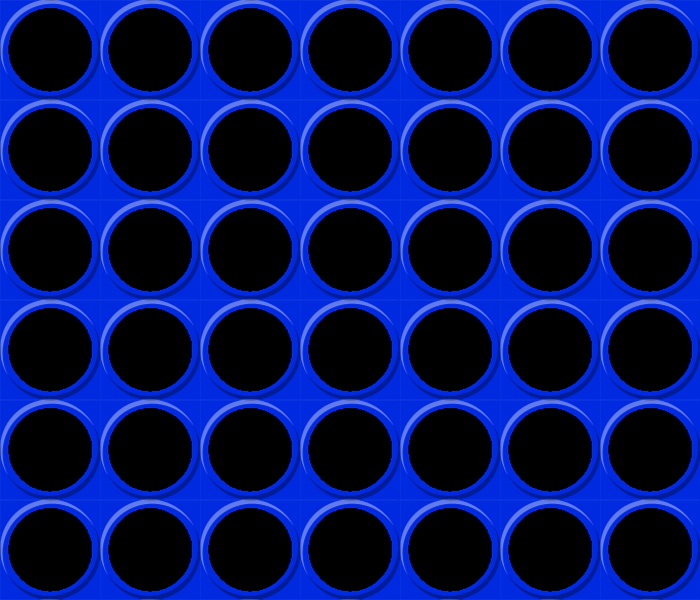
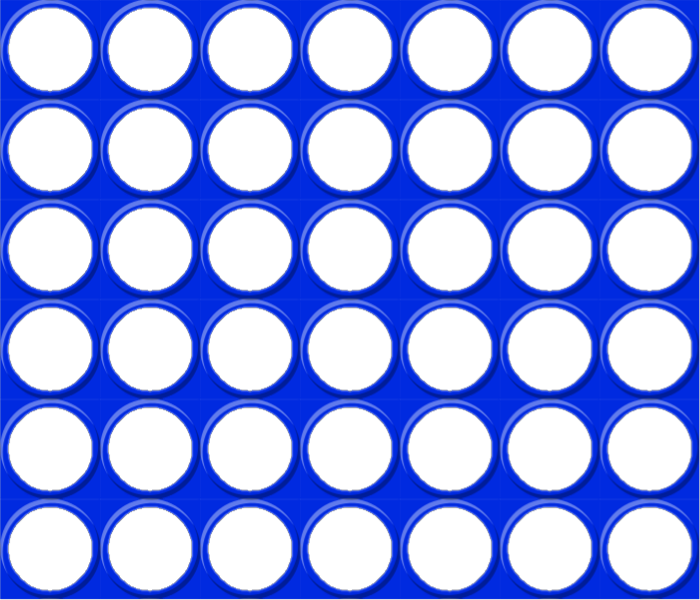
transition OK

diff --git a/script.js b/script.js
@@ -6,7 +6,9 @@ let fonctionEnCours = annimation;
 let FPS = 1000 / 60;
 
 let taillePiece = WIDTH / 7;
-let largeurColonne = WIDTH / 7;
+
+let largeurGrilleX = WIDTH / 7;
+let largeurGrilleY = (HEIGHT-200) / 6;
 
 let fondGrille = new Image();
 fondGrille.src = "assets/img/grille.png";
@@ -29,6 +31,9 @@ let coloneSelectionner = 0;
 let largeurPlateau = 7;
 let hauteurPlateau = 6;
 
+let listeJoueur = [imagePieceRed, imagePieceYellow];
+let joueurActuel = 0;
+
 let plateau = [
     ["", "", "", "", "", "", ""],
     ["", "", "", "", "", "", ""],
@@ -38,6 +43,7 @@ let plateau = [
     ["", "", "", "", "", "", ""]
 ];
 
+let pieceEnCoursMouvement = false;
 
 let pieceMouvement = {
     x: 0,
@@ -74,12 +80,20 @@ window.onload = function () {
 function annimation() {
     context.clearRect(0, 0, WIDTH, HEIGHT);
 
-    context.drawImage(fondGrille, possitionGrilleX, possitionGrilleY, WIDTH - possitionGrilleX, HEIGHT - possitionGrilleY);
+    context.fillStyle = "black";
+    context.fillRect(0, possitionGrilleY, WIDTH, HEIGHT);
 
     context.drawImage(imageFlecheVersLeBas, possitionFleche.x, possitionFleche.y, possitionFleche.width, possitionFleche.height);
 
-    context.drawImage(imagePieceRed, pieceMouvement.x, pieceMouvement.y, pieceMouvement.width, pieceMouvement.height);
     affichePiece();
+
+    //affiche piece en mouvement:
+    if (pieceEnCoursMouvement) {
+        context.drawImage(listeJoueur[joueurActuel], pieceMouvement.x, pieceMouvement.y, largeurGrilleX, largeurGrilleY);
+    }
+
+    context.drawImage(fondGrille, possitionGrilleX, possitionGrilleY, WIDTH - possitionGrilleX, HEIGHT - possitionGrilleY);
+
 }
 
 
@@ -92,21 +106,19 @@ function piecePlusBas(coloneSelectionner) {
             return;
         }
     }
-    plateau[hauteurPiece][coloneSelectionner] = "red";
-    //modifierInfoGrille(hauteurPiece);
-    //plateau[hauteurPiece][coloneSelectionner].newPosY = hauteurPiece * largeurColonne + possitionGrilleY;
-    /*
+    
     pieceMouvement = {
-        x: coloneSelectionner * largeurColonne,
+        x: coloneSelectionner * largeurGrilleX,
         y: -taillePiece,
-        newPosX: coloneSelectionner * largeurColonne,
-        newPosY: hauteurPiece * largeurColonne + possitionGrilleY,
+        newPosX: coloneSelectionner * largeurGrilleX,
+        newPosY: possitionGrilleY + hauteurPiece * largeurGrilleY,
         ease: "bounce"
     }
     annimPiece(pieceMouvement);
-    */
-
+    pieceEnCoursMouvement = true;
+    
 }
+
 
 function modifierInfoGrille(possitionPlusBas) {
     if (0 <= possitionPlusBas && possitionPlusBas < hauteurPlateau) {
@@ -119,9 +131,9 @@ function affichePiece() {
         ligne.forEach((colone, x) => {
 
             if (colone === "red") {
-                context.drawImage(imagePieceRed, x * largeurColonne, y * largeurColonne + possitionGrilleY, largeurColonne, largeurColonne);
+                context.drawImage(imagePieceRed, x * largeurGrilleX, y * largeurGrilleY + possitionGrilleY, largeurGrilleX, largeurGrilleY);
             } else if (colone === "yellow") {
-                context.drawImage(imagePieceYellow, x * largeurColonne, y * largeurColonne + possitionGrilleY, largeurColonne, largeurColonne);
+                context.drawImage(imagePieceYellow, x * largeurGrilleX, y * largeurGrilleY + possitionGrilleY, largeurGrilleX, largeurGrilleY);
             }
 
         })
@@ -134,32 +146,45 @@ function moveMouse(event) {
     possitionMouseY = event.pageY - (board.clientTop + board.offsetTop);
 
     if ((0 <= possitionMouseX && possitionMouseX < WIDTH) && (possitionGrilleY <= possitionMouseY && possitionMouseY <= HEIGHT)) {
-        possitionFleche.newPosX = Math.floor(possitionMouseX / largeurColonne) * largeurColonne;
-        coloneSelectionner = possitionFleche.newPosX / largeurColonne;
+        possitionFleche.newPosX = Math.floor(possitionMouseX / largeurGrilleX) * largeurGrilleX;
+        coloneSelectionner = possitionFleche.newPosX / largeurGrilleX;
         annim(possitionFleche);
     }
 }
 
 function clickMouse() {
-    let possitionPlusBas;
     console.log("clickMouse dans la colone" + coloneSelectionner);
     possitionPlusBas = piecePlusBas(coloneSelectionner);
 
 }
 
-function annim(pieceMouvement) {
-    gsap.to(pieceMouvement, { x: pieceMouvement.newPosX, y: pieceMouvement.newPosY, duration: 0.5, ease: pieceMouvement.ease })
+function annim(pieceMouvementt) {
+    gsap.to(pieceMouvementt, { x: pieceMouvementt.newPosX, y: pieceMouvementt.newPosY, duration: 0.5, ease: pieceMouvementt.ease })
 }
 
 
-function annimPiece(pieceMouvement) {
-    gsap.fromTo(pieceMouvement, {
-        x: pieceMouvement.x * taillePiece,
+function annimPiece(pieceMouvementtt) {
+    gsap.fromTo(pieceMouvementtt, {
+        x: pieceMouvementtt.x,
         y: 0
     }, {
-        x: pieceMouvement.newPosX,
-        y: pieceMouvement.newPosY,
+        x: pieceMouvementtt.newPosX,
+        y: pieceMouvementtt.newPosY,
         duration: 1,
-        ease: pieceMouvement.ease,
+        ease: pieceMouvementtt.ease,
+        onComplete: () => {
+            
+            if (joueurActuel == 0) {
+                couleurAffichePiece = "red";
+                joueurActuel = 1;
+            } else {
+                couleurAffichePiece = "yellow";
+                joueurActuel = 0;
+            }
+            pieceEnCoursMouvement = false;
+
+            plateau[Math.round((pieceMouvementtt.newPosY-possitionGrilleY) / largeurGrilleY)][Math.round(pieceMouvementtt.newPosX / largeurGrilleX)] = couleurAffichePiece;
+
+        }
     })
 }
